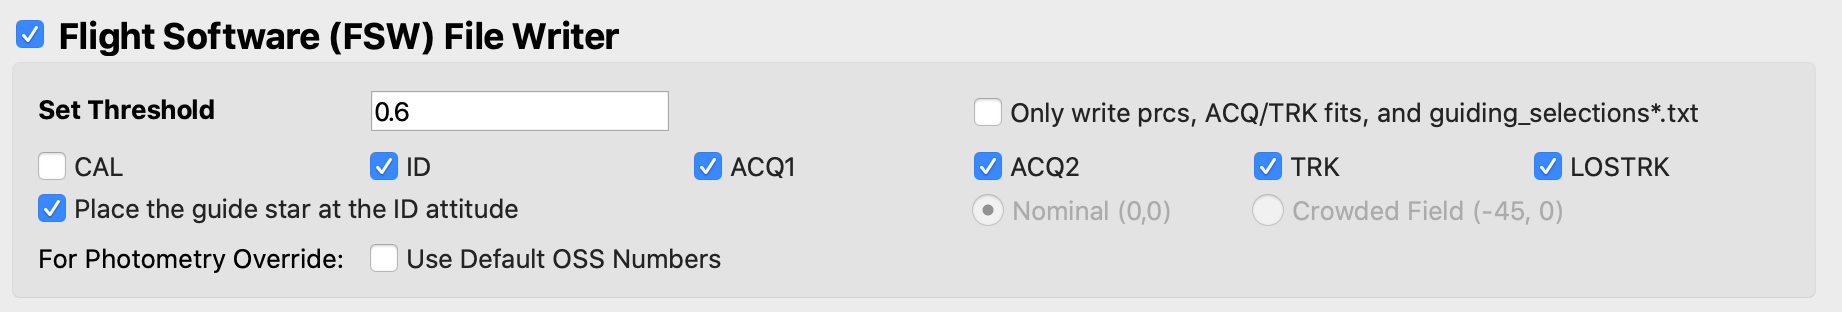
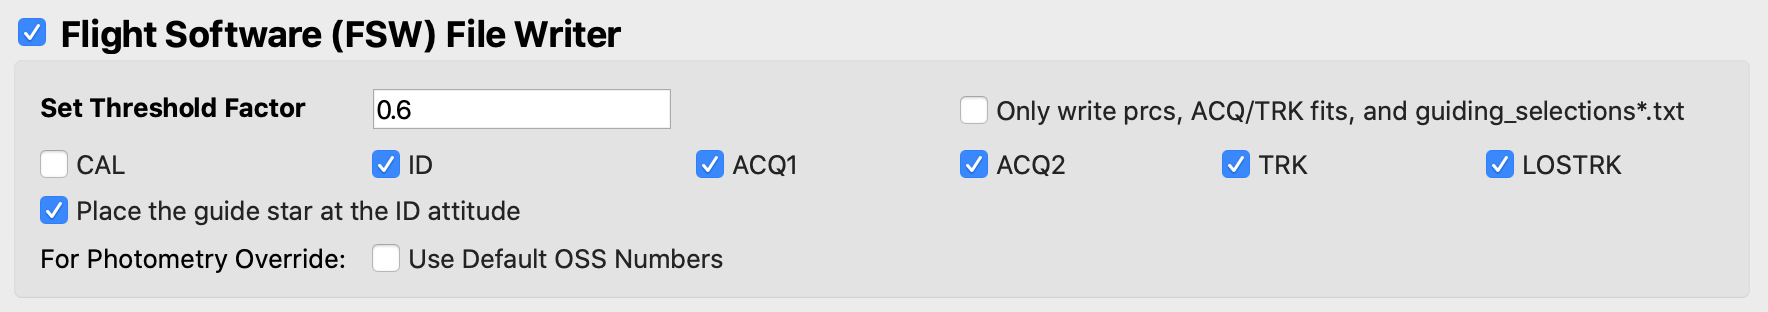
Remove crowded field option from docs

diff --git a/docs/magic_user_guide/iv_select_stars_and_write_files.md b/docs/magic_user_guide/iv_select_stars_and_write_files.md
@@ -31,7 +31,7 @@ One of the main features of MAGIC is that it allows the user to determine the gu
    3. Check that all of the *necessary FGS steps* are selected.
       1. For general guiding, this includes all of the operational steps: ID, ACQ, and TRK. (These are the default selections.)
       2. For calibration observations, add the CAL step.
-   4. If you want to shift your image so that the selected guide star is moved to the center of the image, ensure the **Place the guide star at the ID attitude** box is checked. Designate whether the guiding field is crowded enough that the alternate ID attitude at (Ideal X, Ideal Y) = (-45, 0) should be used (**Crowded field**). Otherwise, leave the **Nominal** button selected such that the star is placed at (Ideal X, Ideal Y) = (0, 0).
+   4. If you want to shift your image so that the selected guide star is moved to the center of the image, ensure the **Place the guide star at the ID attitude** box is checked. This will place the guide star at the ID attitude at (Ideal X, Ideal Y) = (0, 0).
    5. If you are testing data for a possible photometry override file and you want the data written to the FSW products to be the default values OSS would use if there were no POF submitted, check the **Use Default OSS Numbers** box. Be sure to have guide star information populated in the Image Conversion section, even if you keep the **Normalize** box unchecked.
 
 3. Run the tool
